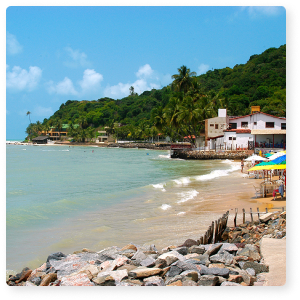
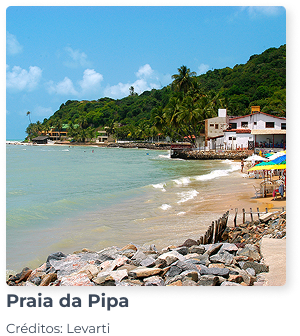
iniciando atividade, e-pipa

diff --git a/assets/e-pipa.html b/assets/e-pipa.html
@@ -1,30 +1,211 @@
 <!DOCTYPE html>
 <html lang="en">
+
 <head>
     <meta charset="UTF-8">
     <meta http-equiv="X-UA-Compatible" content="IE=edge">
     <meta name="viewport" content="width=device-width, initial-scale=1.0">
-    <title>Montagem de Blog Responsivo</title>
-    <link rel="stylesheet" href="css/atividade-2.css">
+    <title>e-pipa</title>
+    <link rel="stylesheet" href="css/e-pipa.css">
     <link rel="stylesheet" href="css/global.css">
+
 </head>
-<body>
-    <header class="flex container">
-        <figure>
-            <img src="css/img/logo.png" alt="">
-        </figure>
-        <div class="autor flex">
-            <p>por Sérgio Trindade</p>
-        </div>
-        <span class="linha-1 flex"></span>
-        <div><img src="css/img/lupa.png" alt=""></div>
-        <nav>
-            <li><a href="#">O Blog   |</a></li>
-            <li><a href="#">Downloads</a></li>
-        </nav>
+
+<body class="flex coluna centralizar-vertical">
+    <header class="flex coluna">
+        <section class="flex coluna centralizar-vertical gap">
+            <div class="midias ">
+                <div class="">
+                    SIGA NAS REDES SOCIAIS
+                    <img src="css/img/youtube.png" alt="">
+                    <img src="css/img/facebook.png" alt="">
+                    <img src="css/img/instagram.png" alt="">
+                </div>
+                <div class="logo-1">
+    
+                    <img src="css/img/logo1-e.png" alt="Logo E-Pipa">
+    
+                    <nav class="flex">
+                        <a href="#" class="ativo">Sobre nós</a>
+                        <a href="#" class="eventos">Eventos</a>
+                        <a href="#" class="falecon">Fale Conosco</a>
+                        <a href="#" class="areada">Área do Agente</a>
+                    </nav>
+                </div>
+            </div>
+        </section>
     </header>
-    <section class="">
-        <h1>Simão celerado: do nascimento à morte da democracia (VI) – o caso Alan Gideon</h1>
+
+    <main class="container flex coluna centralizar">
+        <h1>Sobre a E-Pipa Experience</h1>
+
+        <div class="comentario">
+            <p class="azul">
+                "Nossa missão é proporcionar boas experiências"
+            <div> - Marina Silva </div>
+            </p>
+        </div>
+
+        <figure class="logo-2">
+            <img src="css/img/logo2-e.png" alt="">
+        </figure>
+
+        <section class="conteudo">
+            <div class="paragrafo-1">
+                <p>
+                    No Quinta do Rio o hóspede encontra sossego e privacidade a 1.4 Km do centro de Pipa, a 600 metros
+                    da
+                    Praia do Madeiro, uma das mais procuradas em Pipa. São 30 flats, nas categorias Master e Gran
+                    Master, com estrutura completa de sala, cozinha e varanda privativa. As áreas de convivência contam
+                    com salão, salão de café de manhã, piscina, além de um belíssimo jardim com aproximadamente 11.000
+                    m2 e estacionamento privativo. O Quinta do Rio Apart Hotel é o lugar perfeito para quem busca
+                    tranquilidade e conforto para a família, grupos e amigos, e ainda para a realização de eventos em
+                    grupos.
+                </p>
+            </div>
+
+            <div class="sub-titulo">
+                Somos especialistas na praia da Pipa
+                <h2>Descobrimos o melhor para você</h2>
+                <span></span>
+            </div>
+
+            <div>
+                <div class="paragrafo-2">
+                    <p>
+                        No Quinta do Rio o hóspede encontra sossego e privacidade a 1,4 Km do centro de Pipa, e à 600
+                        metros
+                        da Praia do Madeiro, uma das mais procuradas em Pipa. São 30 flats, nas categorias Master e,
+                        Gran
+                        Master, com estrutura completa de sala, cozinha e varanda privativa. As áreas de convivência
+                        conta
+                        com saguão, salão de café de manhã, piscina, além de um belíssimo jardim com aproximadamente
+                        11.000
+                        m2 e, estacionamento privativo.
+                    </p>
+                </div>
+                <div class="conteudo-imagem">
+                    <img src="css/img/praia1-e.png" alt="Praia da Pipa">
+                    <div>
+                        <h3 class="pdp">Praia da pipa</h3>
+                        <small> Créditos: Levarti</small>
+                    </div>
+                </div>
+            </div>
+        </section>
+
+        <small class="container-menor conteudo-3">
+            Temos praias maravilhosas
+        </small>
+        <h2>e nós te levamos a todas</h2>
+    </main>
+
+    <section class="praias">
+        <div>
+            <div imagens-praias>
+                <img src="css/img/praia2-e.png" alt="praia2">
+                <h3 class="cinza">Praia da Pipa</h3>
+                <small class="cinza">Créditos: Levarti</small>
+            </div>
+
+            <div>
+                <img src="css/img/praia3-e.png" alt="praia3">
+                <h3 class="cinza">Praia da Pipa</h3>
+                <small class="cinza">Créditos: Levarti</small>
+            </div>
+
+            <div>
+                <img src="css/img/praia4-e.png" alt="praia4">
+                <h3 class="cinza">Praia da Pipa</h3>
+                <small class="cinza">Créditos: Levarti</small>
+            </div>
+
+            <div>
+                <img src="css/img/praia5-e.png" alt="praia5">
+                <h3 class="cinza">Praia da Pipa</h3>
+                <small class="cinza">Créditos: Levarti</small>
+            </div>
+
+            <div>
+                <img src="css/img/praia6-e.png" alt="praia6">
+                <h3 class="cinza">Praia da Pipa</h3>
+                <small class="cinza">Créditos: Levarti</small>
+            </div>
+        </div>
     </section>
+
+    <footer class="footer flex contralizar">
+        <div class="container">
+
+            <!-- coluna 1 -->
+            <section class="left coluna coluna-1">
+                <figure>
+                    <img src="css/img/logo3-e.png" alt="">
+                </figure>
+                <address>
+                    <div>
+                        <i class="fa-solid fa-location-dot fa-lg"></i>
+                        Rua das Conchas, 1621, Praia da Pipa Tibau do Sul / RN / Brasil
+                    </div>
+                    <div>
+                        <i class="fa-solid fa-phone fa-lg"></i>
+                        <strong>+55 (84) 99684.8696</strong>
+                    </div>
+                    <div>
+                        <i class="fa-regular fa-envelope fa-lg"></i>
+                        atendimento@epipaexperience.com
+                    </div>
+                </address>
+
+                <div class="icons">
+                    <i class="fa-brands fa-youtube fa-lg"></i>
+                    <i class="fa-brands fa-facebook-f fa-lg"></i>
+                    <i class="fa-brands fa-instagram fa-lg"></i>
+                </div>
+            </section>
+
+
+            <!-- coluna 2 -->
+            <section class="left coluna coluna-2">
+                <div class="menus">
+                    <menu class="menu-rodape left">
+                        <li><a href="#">Sobre nós</a></li>
+                        <li><a href="#">Nossos parceiros</a></li>
+                        <li><a href="#">Eventos na pipa</a></li>
+                        <li><a href="#">Nossos eventos</a></li>
+                    </menu>
+                    <menu class="menu-rodape left">
+                        <li><a href="#">Casas para temporada</a></li>
+                        <li><a href="#">Hotéis e pousadas</a></li>
+                        <li><a href="#">Passeios</a></li>
+                        <li><a href="#">Experiências</a></li>
+                    </menu>
+                </div>
+                <p>Lorem ipsum dolor sit amet consectetur adipisicing elit. Nobis qui, eos libero, rerum tenetur saepe
+                    dicta voluptatum rem, id tempore et fugiat? Odio consequatur facere culpa ducimus, quasi dolorem
+                    minima.</p>
+
+            </section>
+
+            <!-- coluna 3 -->
+            <section class="left coluna coluna-3">
+                <div class="bloco-telegram">
+                    <h3>Fique por dentro</h3>
+                    <p>
+                        Acompanhe novidades, promoções, descontos e tudo que preparamos para você.
+                    </p>
+                    <div class="button">
+                        <a href="#">
+                            <i class="fa-brands fa-telegram fa-lg"></i>
+                            Entre para o Telegram
+                        </a>
+                    </div>
+                </div>
+            </section>
+
+        </div>
+    </footer>
+
 </body>
+
 </html>

diff --git a/assets/css/global.css b/assets/css/global.css
@@ -1,5 +1,5 @@
 .container{
-    min-width: 1400px;
+    max-width: 1200px;
 }
 .block{ 
     display: block; 
@@ -13,10 +13,10 @@
 .flex{
     display: flex;
 }
-.flutuar-esquerda{
+.alinhar-esquerda{
     justify-content: start;
 }
-.flutuar-direita{
+.alinhar-direita{
     justify-content: end;
 }
 .centralizar-horizontal{
@@ -32,4 +32,10 @@
 
 .alinhar-extremidades{
     justify-content: space-between;
+}
+.coluna{
+    flex-direction: column;
+}
+.container-menor{
+    max-width: 800px;
 }

diff --git a/index.html b/index.html
@@ -5,7 +5,7 @@
     <meta http-equiv="X-UA-Compatible" content="IE=edge">
     <meta name="viewport" content="width=device-width, initial-scale=1.0">
     <title>Montagem básica responsiva</title>
-    <link rel="stylesheet" href="css/style.css">
+    <link rel="stylesheet" href="assets/css/style.css">
 </head>
 <body class="flex">
     <main>

diff --git a/assets/css/e-pipa.css b/assets/css/e-pipa.css
@@ -1,9 +1,4 @@
 header{
-    width: 1460px;
-    height: 100px;
-    flex-shrink: 0;
-    background: #C11616;
-}
-h1{
-    flex-direction: column;
+    background-color: #203C86;
+    width: 100%;
 }
